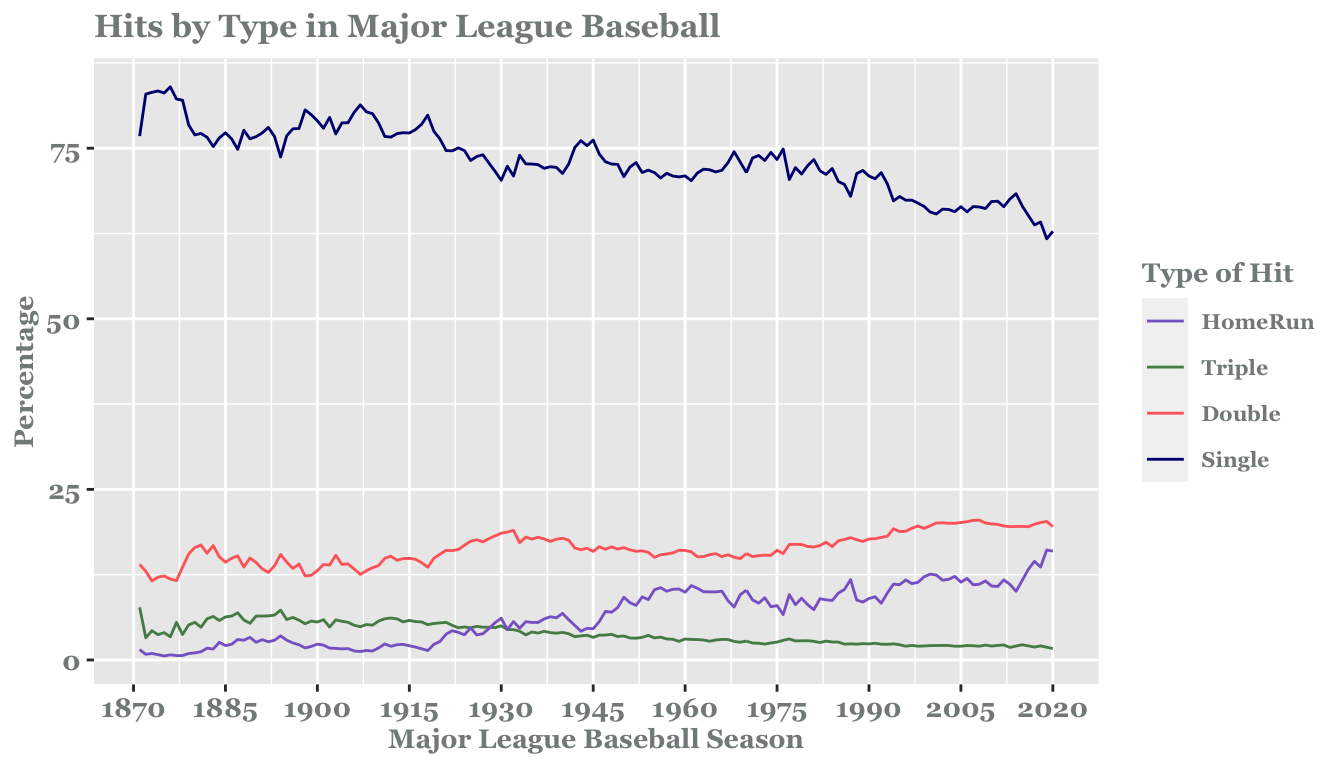
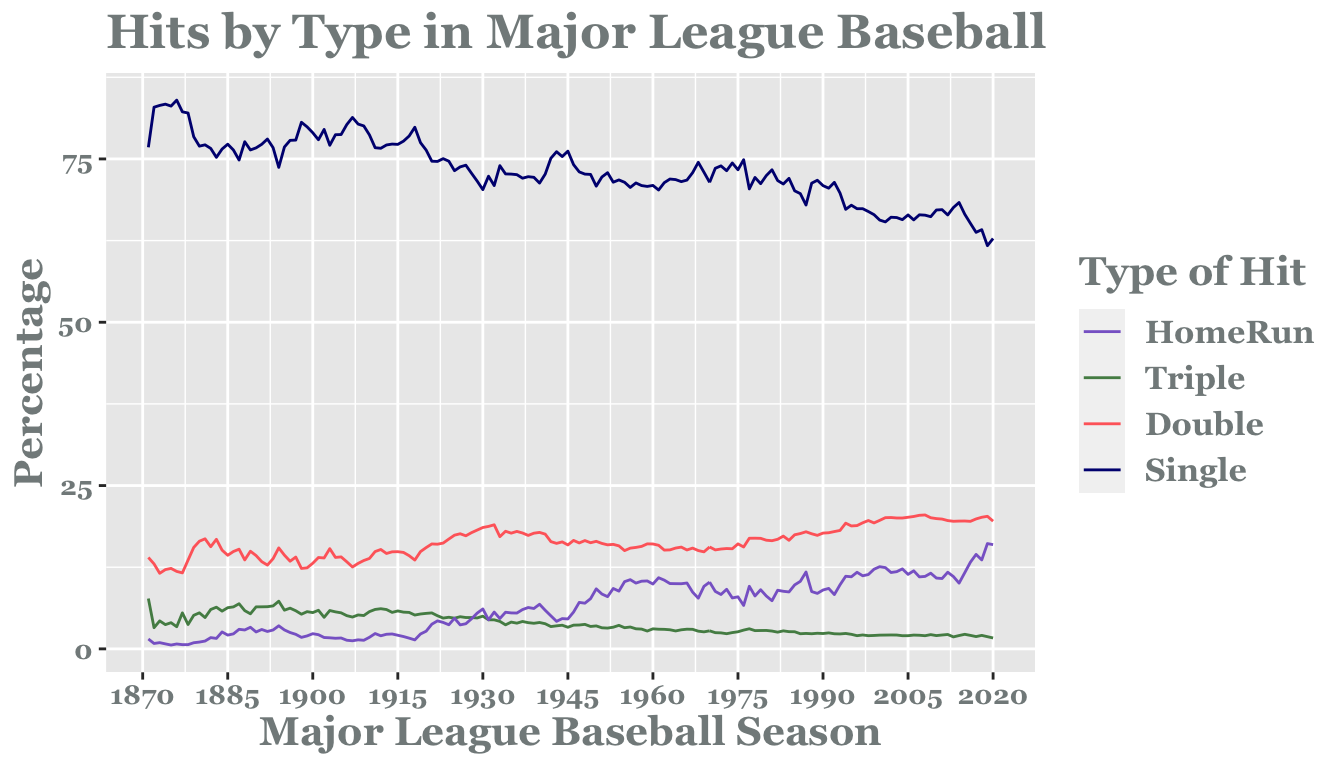
Added introduction and made graph text larger.

diff --git a/Poster/Poster.html b/Poster/Poster.html
@@ -298,6 +298,7 @@ Exploring the Lahman’s Baseball Database</div></h1>
 <div class='poster_body'>
 <div id="introduction" class="section level1">
 <h1>Introduction</h1>
+<p>Baseball is a very old sport, and the Major League Baseball association in the U.S. has been around for almost 120 years. We decided to dive into the in-depth historical database that chronicles the sport in order to examine how it has changed over time.</p>
 </div>
 <div id="the-database" class="section level1">
 <h1>The Database</h1>
